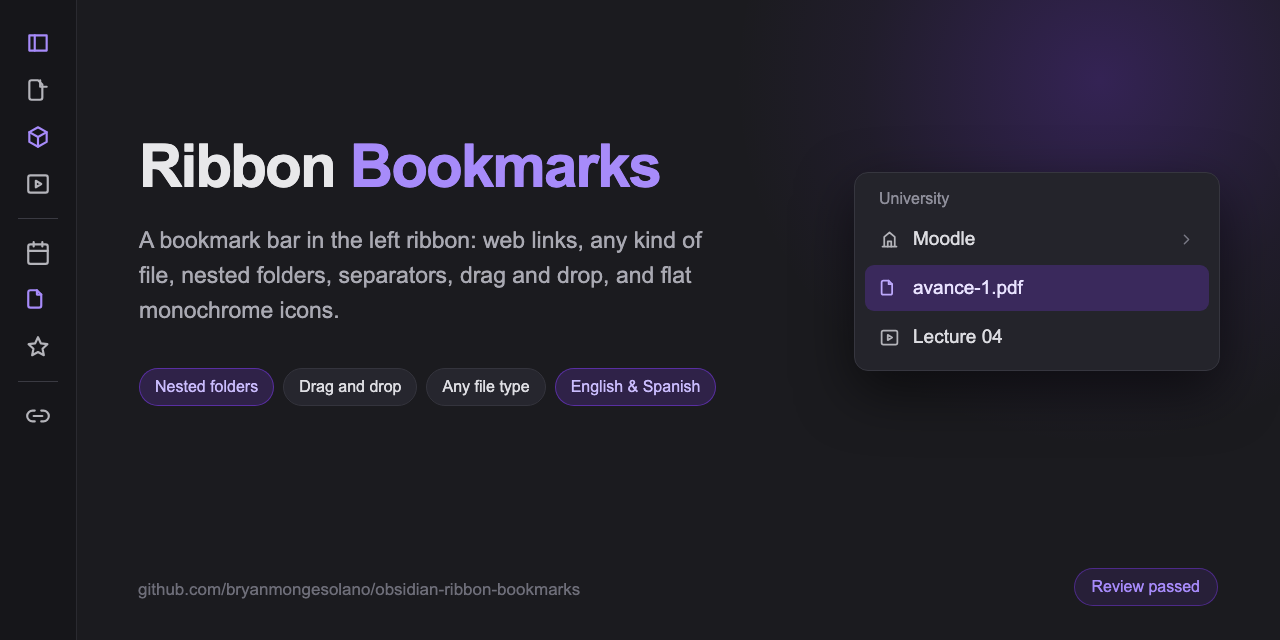
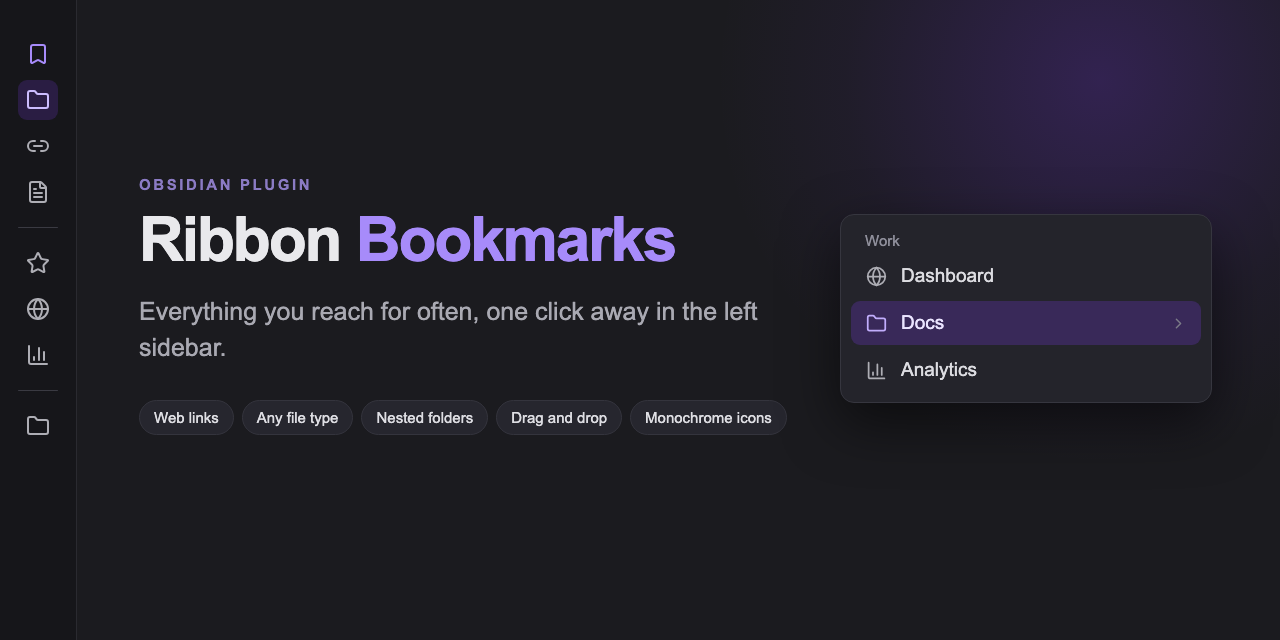
Rework the preview image and tighten the README
Preview image:
- Every ribbon icon now sits in an identical fixed box and uses the real Lucide
  geometry, so the column is perfectly aligned
- Replaced the personal folder example with a generic one
- Removed the redundant language pill and the review badge
- New tagline that does not repeat the feature list, which now lives in pills

README: shorter feature bullets, a single-row badge header, condensed
installation and compatibility sections.

diff --git a/README.md b/README.md
@@ -1,90 +1,70 @@
-[![Downloads](https://img.shields.io/github/downloads/bryanmongesolano/obsidian-ribbon-bookmarks/total?style=for-the-badge&logo=obsidian&color=7c3aed)](https://community.obsidian.md/plugins/ribbon-bookmarks)
 [![Release](https://img.shields.io/github/v/release/bryanmongesolano/obsidian-ribbon-bookmarks?style=for-the-badge)](https://github.com/bryanmongesolano/obsidian-ribbon-bookmarks/releases)
+[![Downloads](https://img.shields.io/github/downloads/bryanmongesolano/obsidian-ribbon-bookmarks/total?style=for-the-badge&logo=obsidian&color=7c3aed)](https://community.obsidian.md/plugins/ribbon-bookmarks)
 [![License](https://img.shields.io/badge/license-MIT-7c3aed?style=for-the-badge)](LICENSE)
-[![Review](https://img.shields.io/badge/review-passed-22c55e?style=for-the-badge)](https://community.obsidian.md/plugins/ribbon-bookmarks)
-
-# Ribbon Bookmarks
-
-A bookmark bar inside the left ribbon of Obsidian: web links, any kind of file, nested folders, separators, drag and drop, and flat monochrome icons.
 
 ![Ribbon Bookmarks](assets/social-preview.png)
 
+Everything you reach for often, one click away in the left sidebar.
+
 ## Features
 
-- **Web links** open in whichever browser plugin is actually enabled in the vault: Surfing, the built-in Web viewer, or the system browser. The plugin never hardcodes a browser, and it never hardcodes tab behavior either — it inherits whatever the vault is configured to do.
-- **Any file** can be pinned: notes, PDFs, canvas, Excalidraw, Office documents, video, audio and archives.
-- **Folders**: drop one item on top of another to group them. Folders nest without limit and open in cascading side menus.
-- **Separators** to group the ribbon visually.
-- **Drag and drop** onto the ribbon: drag a tab from the tab bar, a link from a web page, or files and folders from the vault or from your computer.
-- **Flat monochrome icons**: Lucide icons, built-in vector logos, an online SVG search, or your own `.svg` files — always rendered with `currentColor` so they match any theme.
-- **English and Spanish** interface, following the app language by default.
+- **Web links and any file type** — notes, PDFs, canvas, Excalidraw, Office documents, video, audio and archives.
+- **Nested folders** — drop an item on another to group them. Folders open in cascading side menus and nest without limit.
+- **Drag and drop** — drag a tab, a link, or files and folders straight onto the ribbon.
+- **Flat monochrome icons** — Lucide, built-in brand logos, an online SVG search, or your own `.svg` files, always tinted by the current theme.
+- **No lock-in** — it opens links in whichever browser is already enabled in the vault, and follows whatever tab behavior you have configured.
 
 ## Installation
 
-### From the community directory
+**From the community directory**
 
 [![Install Ribbon Bookmarks](https://img.shields.io/badge/Install-Ribbon%20Bookmarks-7c3aed?style=for-the-badge)](https://obsidian.md/plugins?id=ribbon-bookmarks)
 
-Or, from inside the app:
+**With BRAT** — for testing a version that is not in the directory yet:
 
-1. Open **Settings → Community plugins**.
-2. Turn off **Restricted mode** if needed, then **Browse**.
-3. Search for **Ribbon Bookmarks** and install it.
-4. Enable it and reload.
+1. Install [BRAT](https://github.com/TfTHacker/obsidian42-brat) and run **BRAT: Add a beta plugin for testing**.
+2. Enter `bryanmongesolano/obsidian-ribbon-bookmarks`.
 
-### Via BRAT (useful before the directory listing goes live)
-
-1. Install the community plugin [BRAT](https://github.com/TfTHacker/obsidian42-brat).
-2. Run the command **BRAT: Add a beta plugin for testing**.
-3. Enter `bryanmongesolano/obsidian-ribbon-bookmarks`.
-4. Enable **Ribbon Bookmarks** in **Settings → Community plugins**.
-
-BRAT keeps it updated from the GitHub releases automatically.
-
-### Manual
-
-1. Download `main.js`, `manifest.json` and `styles.css` from the [latest release](https://github.com/bryanmongesolano/obsidian-ribbon-bookmarks/releases/latest).
-2. Create `.obsidian/plugins/ribbon-bookmarks/` in your vault and place the three files there.
-3. Enable the plugin in **Settings → Community plugins**.
+**Manually** — copy `main.js`, `manifest.json` and `styles.css` from the [latest release](https://github.com/bryanmongesolano/obsidian-ribbon-bookmarks/releases/latest) into `.obsidian/plugins/ribbon-bookmarks/`.
 
 ## Usage
 
 | Action | Result |
 | --- | --- |
-| Left click an item | Opens the link or file |
-| Middle click | Opens in a new tab |
-| Left click a folder | Toggles its content menu |
-| Right click the ribbon (empty space) | Add item, add separator, and the native ribbon options |
+| Left click | Opens the item |
+| Middle click | Opens it in a new tab |
+| Left click a folder | Shows its contents |
+| Right click the ribbon | Add an item or a separator, plus the native ribbon options |
 | Right click an item | Open in new tab, open externally, modify, delete |
-| Drag an item onto another item's center | Creates a folder, or moves it inside an existing one |
-| Drag an item between two items | Reorders it, with a purple line showing the drop position |
-| Hover over a folder while dragging | Expands it after about 350 ms so you can drop inside |
+| Drag onto another item | Groups them into a folder |
+| Drag between two items | Reorders, with a line showing where it will land |
 
-The only setting is the interface language.
+## Settings
+
+Language: automatic (follows the app), English or Spanish.
+
+## Compatibility
+
+- Requires **Obsidian 1.13.0** or later.
+- Tab behavior and browser rendering are inherited from the vault: Surfing → Web viewer → system browser, and **Open Tab Settings** when it is installed.
+- No telemetry. The only network requests are the optional icon search and the site logo lookup, both started by you.
 
 ## Development
 
 ```bash
 npm install
 npm run dev      # watch build
-npm run lint     # ESLint + Stylelint, using Obsidian's official rules
+npm run lint     # ESLint + Stylelint with Obsidian's official rules
 npm run build    # type check + production build
 npm run deploy   # build, then copy into a local vault
 ```
 
-`npm run deploy` copies `manifest.json`, `main.js` and `styles.css` into a local vault. Set `OBSIDIAN_VAULT_PLUGINS` to the `.obsidian/plugins` folder of your vault before running it:
+`npm run deploy` needs the target vault:
 
 ```bash
 OBSIDIAN_VAULT_PLUGINS="/path/to/vault/.obsidian/plugins" npm run deploy
 ```
 
-## Compatibility
-
-- `minAppVersion`: 1.13.0
-- **Tab behavior** is inherited from the vault: when the community plugin **Open Tab Settings** is enabled its configuration is respected, otherwise Obsidian's native behavior is used.
-- **Browser rendering** is inherited from the vault: **Surfing** → built-in **Web viewer** → system browser.
-- The plugin requests no telemetry. The only network requests are the optional icon search and the site logo lookup, both triggered by the user.
-
 ## License
 
-MIT
+[MIT](LICENSE)
